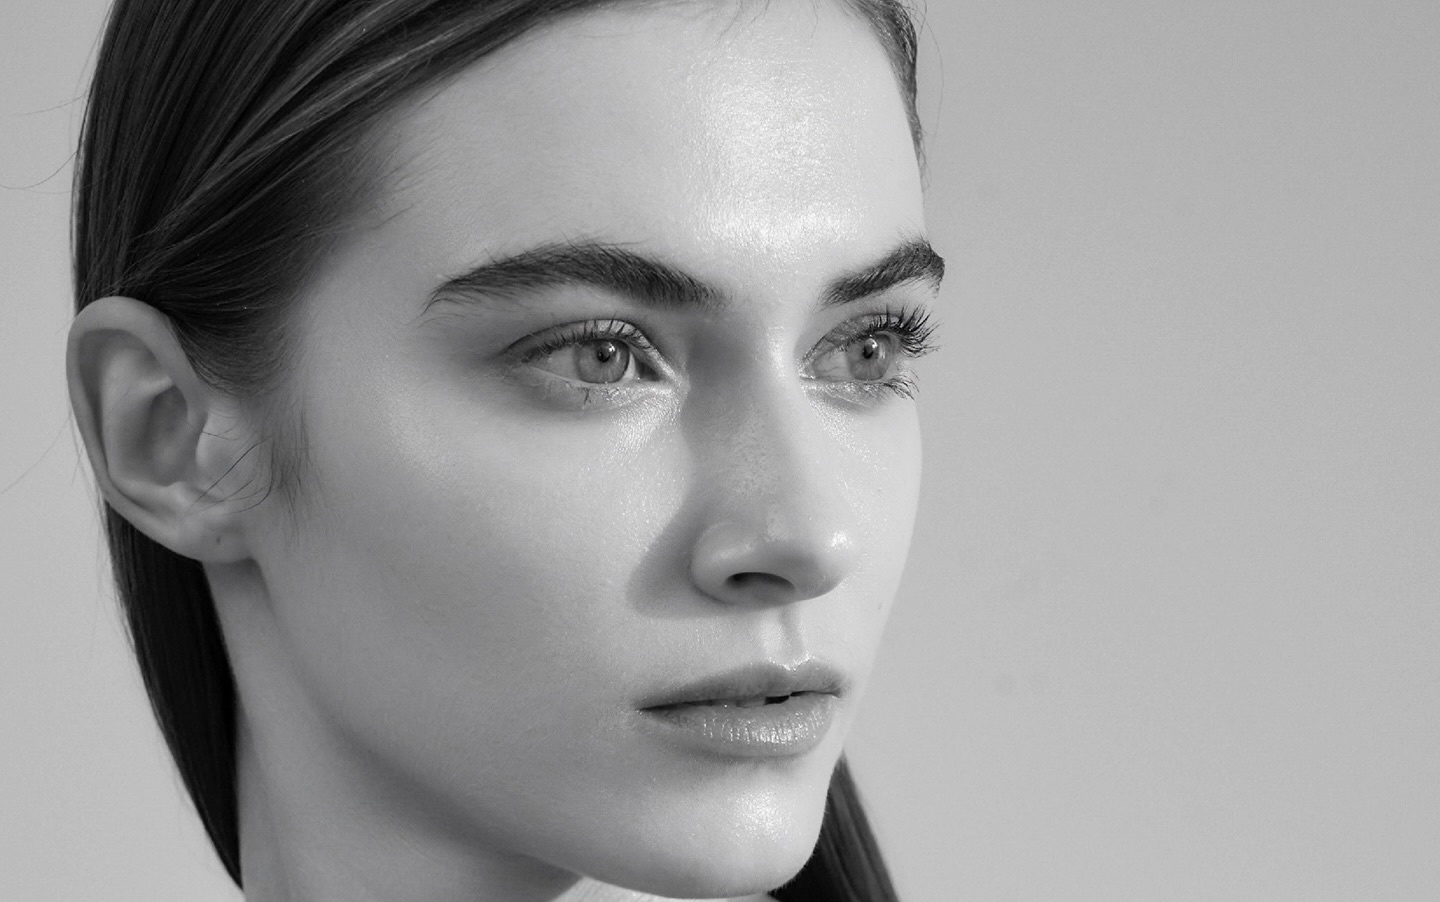
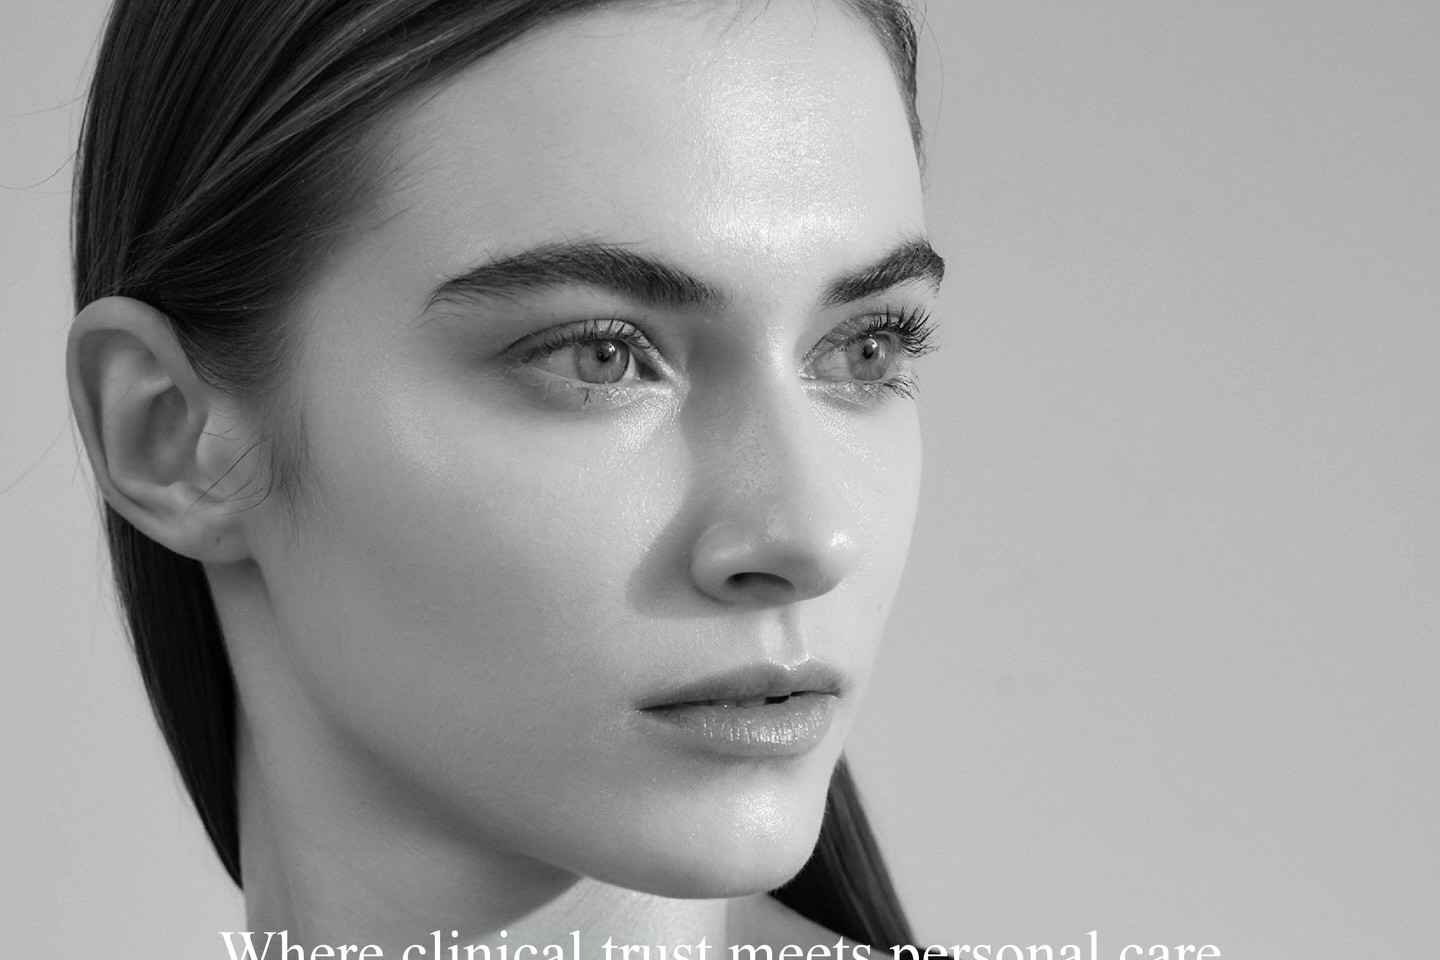
Use model face as Why Choose Us background, full face crop

diff --git a/css/style.css b/css/style.css
@@ -3203,7 +3203,7 @@ h3 {
 
 /* ── Work page combined section ─────────────────────────── */
 .work-combined-section {
-  background: url('../images/model-face-bg.jpg') center 20% / cover no-repeat;
+  background: url('../images/why-bg.jpg?v=3') center top / cover no-repeat;
   padding: 96px 24px;
   text-align: center;
   position: relative;
